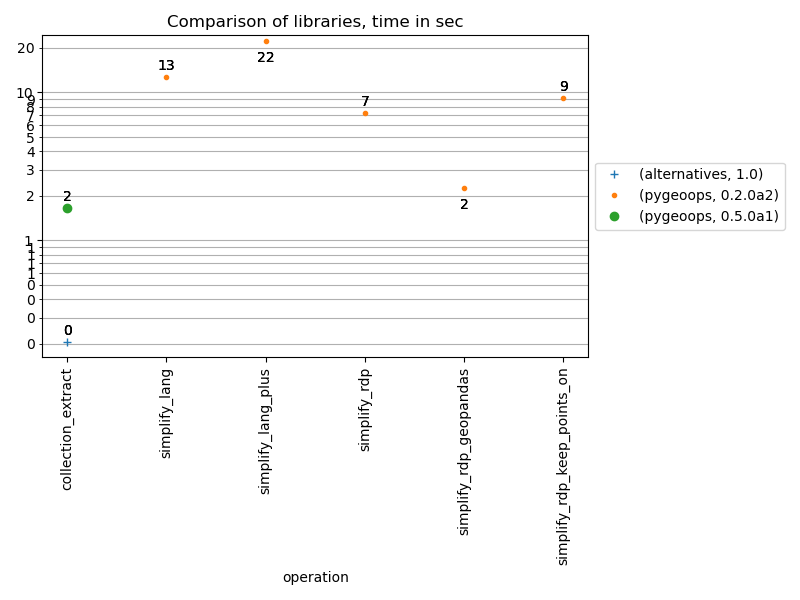
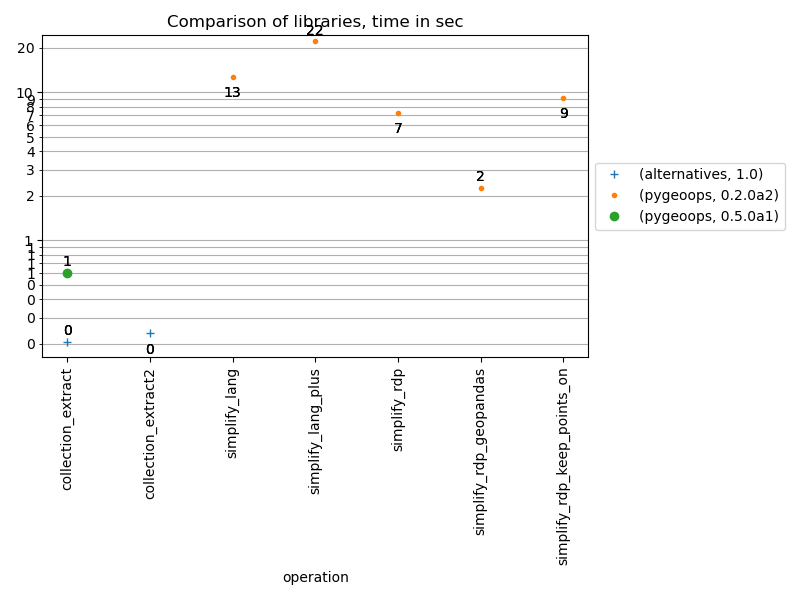
Many improvements

diff --git a/pygeoops/_general.py b/pygeoops/_general.py
@@ -100,6 +100,147 @@ def _extract_0dim_ndarray(geometry):
 
 
 def collection_extract(
+    geometry, primitivetype: int | PrimitiveType | None = None
+) -> BaseGeometry | NDArray[BaseGeometry] | None:
+    """
+    Extracts the parts from the input that comply with the type specified.
+
+    Args:
+        geometry (geometry, GeoSeries or arraylike): geometry or arraylike.
+        primitivetype (Union[int, PrimitiveType]): the type of geometries to keep in the
+            output. Can be either be a PrimitiveType, or it can be a string or an int
+            with one of the following values:
+                - 1 or "Point": keep only Point geometries
+                - 2 or "LineString": keep only Linestring geometries
+                - 3 or "Polygon": keep only Polygon geometries
+
+
+    Raises:
+        ValueError: if geometry is an unsupported geometry type or (a) primitivetype is
+            invalid.
+
+    Returns:
+        Union[BaseGeometry, NDArray[BaseGeometry], None]: geometry or array of
+            geometries containing only parts of the primitive type specified.
+    """
+    if isinstance(primitivetype, PrimitiveType):
+        primitivetype = primitivetype.value
+
+    return collection_extract2(geometry, primitivetype)
+
+
+def collection_extract2(
+    geometry,
+    type: int | str,
+) -> BaseGeometry | NDArray[BaseGeometry] | None:
+    """
+    Extracts the parts from the input that comply with the type specified.
+
+    Notes:
+        - MultiPolygon results are not checked for validity. If the polygon components
+          are adjacent or overlapping the result will be invalid. This situation can be
+          checked with `is_valid` and repaired with `make_valid`.
+
+    Args:
+        geometry (geometry, GeoSeries or arraylike): geometry or arraylike.
+        type (Union[int, str] or arraylike): the type of geometries to keep in the
+            output. One of the following values:
+                - 1 or "Point": keep only Point geometries
+                - 2 or "LineString": keep only Linestring geometries
+                - 3 or "Polygon": keep only Polygon geometries
+
+    Raises:
+        ValueError: if geometry is an unsupported geometry type or if the type specified
+            is invalid.
+
+    Returns:
+        Union[BaseGeometry, NDArray[BaseGeometry], None]: geometry or array of
+            geometries containing only parts of the primitive type specified.
+    """
+    if type is None:
+        raise ValueError("Invalid value for type: None")
+    elif isinstance(type, str):
+        type = type.lower()
+        if type == "point":
+            type_ids = np.array([0, 4])
+        elif type == "linestring":
+            type_ids = np.array([1, 2, 5])
+        elif type == "polygon":
+            type_ids = np.array([3, 6])
+        else:
+            raise ValueError(f"Invalid value for type: {type}")
+    elif isinstance(type, int | np.integer):
+        if type == 1:
+            type_ids = np.array([0, 4])
+        elif type == 2:
+            type_ids = np.array([1, 2, 5])
+        elif type == 3:
+            type_ids = np.array([3, 6])
+        else:
+            raise ValueError(f"Invalid value for type: {type}")
+    else:
+        raise ValueError(f"Invalid type for parameter type: {type(type)}")
+
+    if geometry is None:
+        return None
+    geometry = _extract_0dim_ndarray(geometry)
+
+    # Single geometry.
+    if not _is_arraylike(geometry):
+        return _collection_extract(geometry, type_ids)
+
+    # Extract the rows that are GeometryCollections
+    geometry = np.array(geometry)
+    is_collection = shapely.get_type_id(geometry) == 7
+    geometry[is_collection] = np.array(
+        [
+            _collection_extract(geometry=geom, type_ids=type_ids)
+            for geom in geometry[is_collection]
+        ]
+    )
+
+    # Set all rows of a wrong type to None
+    geometry[~np.isin(shapely.get_type_id(geometry), type_ids)] = None
+
+    return geometry
+
+
+def _collection_extract(
+    geometry: shapely.GeometryCollection, type_ids: NDArray[np.number]
+) -> BaseGeometry | None:
+    parts = shapely.get_parts(geometry)
+
+    # Recursively extract parts to keep from GeometryCollections
+    types = shapely.get_type_id(parts)
+    extracted = np.array(
+        [_collection_extract(geom, type_ids=type_ids) for geom in parts[types == 7]]
+    )
+
+    # Filter the parts of the types to keep from the original parts
+    parts_to_keep = parts[np.isin(types, type_ids)]
+
+    # Concatenate the extracted parts with the parts to keep
+    if len(extracted) > 0:
+        parts_to_keep = np.concatenate(parts_to_keep, extracted)
+
+    # If there are few resulting parts, we are ready
+    if len(parts_to_keep) == 0:
+        return None
+    elif len(parts_to_keep) == 1:
+        return parts_to_keep[0]
+
+    # Flatten all geometries to be able to return a single multigeometry
+    parts_to_keep = shapely.get_parts(parts_to_keep)
+
+    if type_ids[0] == 0:
+        return shapely.multipoints(parts_to_keep)
+    elif type_ids[0] == 1:
+        return shapely.multilinestrings(parts_to_keep)
+    elif type_ids[0] == 3:
+        return shapely.multipolygons(parts_to_keep)
+
+
+def _collection_extract_old(
     geometry,
     primitivetype: int | PrimitiveType | ArrayLike | None = None,
 ) -> BaseGeometry | NDArray[BaseGeometry] | None:
@@ -143,27 +284,35 @@ def collection_extract(
             raise ValueError("single geometry passed, but primitivetype is arraylike")
 
         primitivetype_id = to_primitivetype_id(primitivetype)
-        return _collection_extract(geometry=geometry, primitivetype_id=primitivetype_id)  # type: ignore[arg-type]
+        return _collection_extract_old(
+            geometry=geometry, primitivetype_id=primitivetype_id
+        )  # type: ignore[arg-type]
 
     # Geometry is arraylike.
     if not _is_arraylike(primitivetype):
         primitivetype = PrimitiveType(primitivetype)
-        primitivetype.shapely_type_ids
+        shapely_type_id = primitivetype.shapely_type_ids
     else:
         # Number of primitive types specified should equal the number of geometries.
         if len(primitivetype) != len(geometry):
             raise ValueError(
                 "geometry and primitivetype are arraylike, so len must be equal"
             )
+        shapely_type_id = [
+            PrimitiveType(pritype).shapely_type_ids for pritype in primitivetype
+        ]
 
     result = np.array(geometry.copy())
 
+    if not _is_arraylike(primitivetype):
         # Extract the rows that are GeometryCollections
         is_collection = shapely.get_type_id(result) == 7
         primitivetype_id = to_primitivetype_id(primitivetype)
         result[is_collection] = np.array(
             [
-                _collection_extract(geometry=geom, primitivetype_id=primitivetype_id)
+                _collection_extract_old(
+                    geometry=geom, primitivetype_id=primitivetype_id
+                )
                 for geom in result[is_collection]  # type: ignore[arg-type]
             ]
         )
@@ -174,14 +323,14 @@ def collection_extract(
         ] = None
 
     else:
-        # Arraylike primitivetype
+        # Arraylike primitivetype, convert to ids
 
         # Extract the rows that are GeometryCollections
         result = np.array(geometry.copy())
         is_collection = shapely.get_type_id(result) == 7
         result[is_collection] = np.array(
             [
-                _collection_extract(
+                _collection_extract_old(
                     geometry=geom, primitivetype_id=to_primitivetype_id(type)
                 )
                 for geom, type in zip(result[is_collection], primitivetype)  # type: ignore[arg-type]
@@ -189,9 +338,7 @@ def collection_extract(
         )
 
         # Set all rows of a wrong type to None
-        result[
-            ~np.isin(shapely.get_type_id(result), primitivetype.shapely_type_ids)
-        ] = None
+        result[~np.isin(shapely.get_type_id(result), shapely_type_id)] = None
 
     # If input is GeoSeries, recover index
     if isinstance(geometry, GeoSeries):
@@ -229,7 +376,7 @@ def _collection_extract(
             return geometry
     elif isinstance(geometry, shapely.GeometryCollection):
         returngeoms = [
-            _collection_extract(geom, primitivetype_id=primitivetype_id)
+            _collection_extract_old(geom, primitivetype_id=primitivetype_id)
             for geom in geometry.geoms
         ]
         if len(returngeoms) > 0:

diff --git a/benchmark/benchmarks/benchmarks_alternatives.py b/benchmark/benchmarks/benchmarks_alternatives.py
@@ -23,7 +23,7 @@ def _get_version() -> str:
     return 1.0
 
 
-def collection_extract(tmp_dir: Path) -> RunResult:
+def collection_extract2(tmp_dir: Path) -> RunResult:
     # Init
     function_name = inspect.currentframe().f_code.co_name  # type: ignore[union-attr]
     input_path = testdata.TestFile.AGRIPRC_2018.get_file(tmp_dir)
@@ -32,7 +32,7 @@ def collection_extract(tmp_dir: Path) -> RunResult:
     # Go!
     start_time = datetime.now()
     # This is a (private) implementation in geopandas
-    geoms_gdf = _collection_extract(geoms_gdf, geom_type="Polygon")
+    geoms_gdf = _collection_extract2(geoms_gdf, geom_type="Polygon")
     operation_descr = f"{function_name} on agri parcel layer BEFL (~500k polygons)"
     result = RunResult(
         package=_get_package(),
@@ -49,7 +49,7 @@ def collection_extract(tmp_dir: Path) -> RunResult:
     return result
 
 
-def _collection_extract(df, geom_type):
+def _collection_extract2(df, geom_type):
     # Check input
     if geom_type in ["Polygon", "MultiPolygon"]:
         geom_types = ["Polygon", "MultiPolygon"]
@@ -91,3 +91,47 @@ def _collection_extract(df, geom_type):
     result = result.loc[result.geom_type.isin(geom_types)]
 
     return result
+
+
+def collection_extract3(tmp_dir: Path) -> RunResult:
+    # Init
+    function_name = inspect.currentframe().f_code.co_name  # type: ignore[union-attr]
+    input_path = testdata.TestFile.AGRIPRC_2018.get_file(tmp_dir)
+    geoms_gdf = gpd.read_file(input_path, engine="pyogrio")
+
+    # Go!
+    start_time = datetime.now()
+    # This is a (private) implementation in geopandas
+    geoms_gdf = _collection_extract3(geoms_gdf, geom_type="Polygon")
+    operation_descr = f"{function_name} on agri parcel layer BEFL (~500k polygons)"
+    result = RunResult(
+        package=_get_package(),
+        package_version=_get_version(),
+        operation=function_name,
+        secs_taken=(datetime.now() - start_time).total_seconds(),
+        operation_descr=operation_descr,
+        run_details=None,
+    )
+
+    # geoms_gdf.to_file(tmp_dir / f"{function_name}_output.gpkg", engine="pyogrio")
+
+    # Cleanup and return
+    return result
+
+
+def _collection_extract3(df, geom_type):
+    import numpy as np
+    import shapely
+    from shapely.tests.common import all_types
+
+    # Make a GeometryCollection, then convert that to an array
+    geom_collection = shapely.geometrycollections(all_types)
+    geoms = np.array(geom_collection.geoms)
+
+    # Get a specific geometry type type
+    geoms[shapely.get_type_id(geoms) == shapely.GeometryType.LINESTRING]
+    # array([<LINESTRING (0 0, 1 0, 1 1)>], dtype=object)
+
+    # Get geometries with an inherent dimensionality
+    geoms[shapely.get_dimensions(geoms) == 0]
+    # array([<POINT (2 3)>, <MULTIPOINT (0 0, 1 2)>], dtype=object)

diff --git a/tests/test_general.py b/tests/test_general.py
@@ -94,8 +94,8 @@ def test_collection_extract():
     """
     # Test None input
     # ---------------
-    assert pygeoops.collection_extract(None, 0) is None
-    assert pygeoops.collection_extract([None], 0) == [None]
+    assert pygeoops.collection_extract(None, 1) is None
+    assert pygeoops.collection_extract([None], 1) == [None]
 
     # Test dealing with points
     # ------------------------
@@ -121,19 +121,18 @@ def test_collection_extract():
     assert pygeoops.collection_extract(geometrycoll, PrimitiveType.POINT) == point
     assert pygeoops.collection_extract(geometrycoll, 2) == line
     assert pygeoops.collection_extract(geometrycoll, PrimitiveType.LINESTRING) == line
-    assert pygeoops.collection_extract(geometrycoll, 3) == shapely.GeometryCollection(
-        [poly1, multipoly]
+    assert pygeoops.collection_extract(geometrycoll, 3) == shapely.MultiPolygon(
+        [poly1, poly2, poly3]
     )
     assert pygeoops.collection_extract(
         geometrycoll, PrimitiveType.POLYGON
-    ) == shapely.GeometryCollection([poly1, multipoly])
-    assert pygeoops.collection_extract(geometrycoll, 0) == geometrycoll
+    ) == shapely.MultiPolygon([poly1, poly2, poly3])
 
     # Test dealing with deeper nested geometries
     # ------------------------------------------
     assert pygeoops.collection_extract(
-        shapely.GeometryCollection(geometrycoll), 0
-    ) == shapely.GeometryCollection(geometrycoll)
+        shapely.GeometryCollection(geometrycoll), 3
+    ) == shapely.MultiPolygon([poly1, poly2, poly3])
 
     # Test dealing with single element ndarray (0 dimension)
     # ------------------------------------------------------

diff --git a/pygeoops/_difference.py b/pygeoops/_difference.py
@@ -183,7 +183,8 @@ def difference_all(
         geom_diff = shapely.difference(geometry, geom_to_subtract)
 
     # Only keep geometries of the asked primitivetype.
-    geom_diff = pygeoops.collection_extract(geom_diff, output_primitivetype_id)
+    if output_primitivetype_id != 0:
+        geom_diff = pygeoops.collection_extract(geom_diff, output_primitivetype_id)
 
     return geom_diff
 

diff --git a/benchmark/benchmark_alternatives.py b/benchmark/benchmark_alternatives.py
@@ -6,7 +6,7 @@ def main():
     benchmarker.run_benchmarks(
         modules_to_run=["benchmarks_alternatives"],
         functions_to_run=[
-            "collection_extract",
+            "collection_extract2",
             # "simplify_lang",
             # "simplify_lang_plus",
             # "simplify_rdp",
